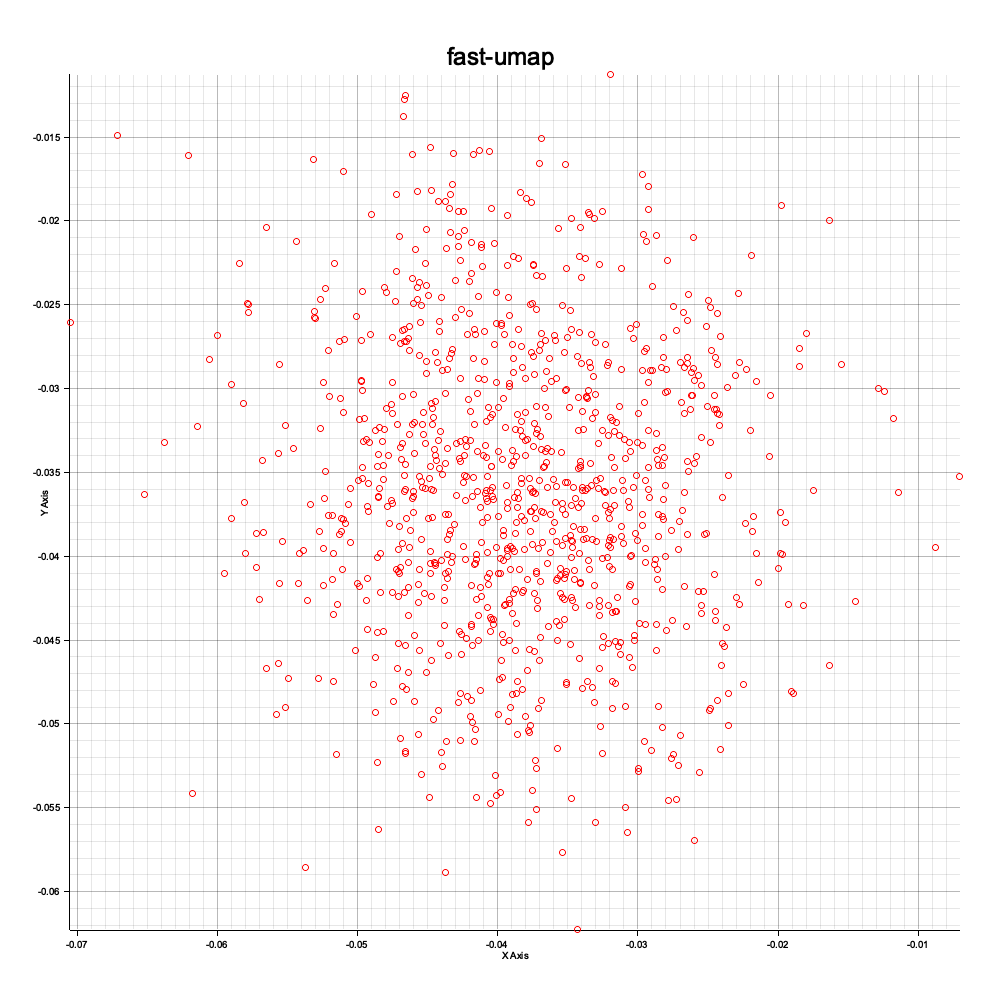
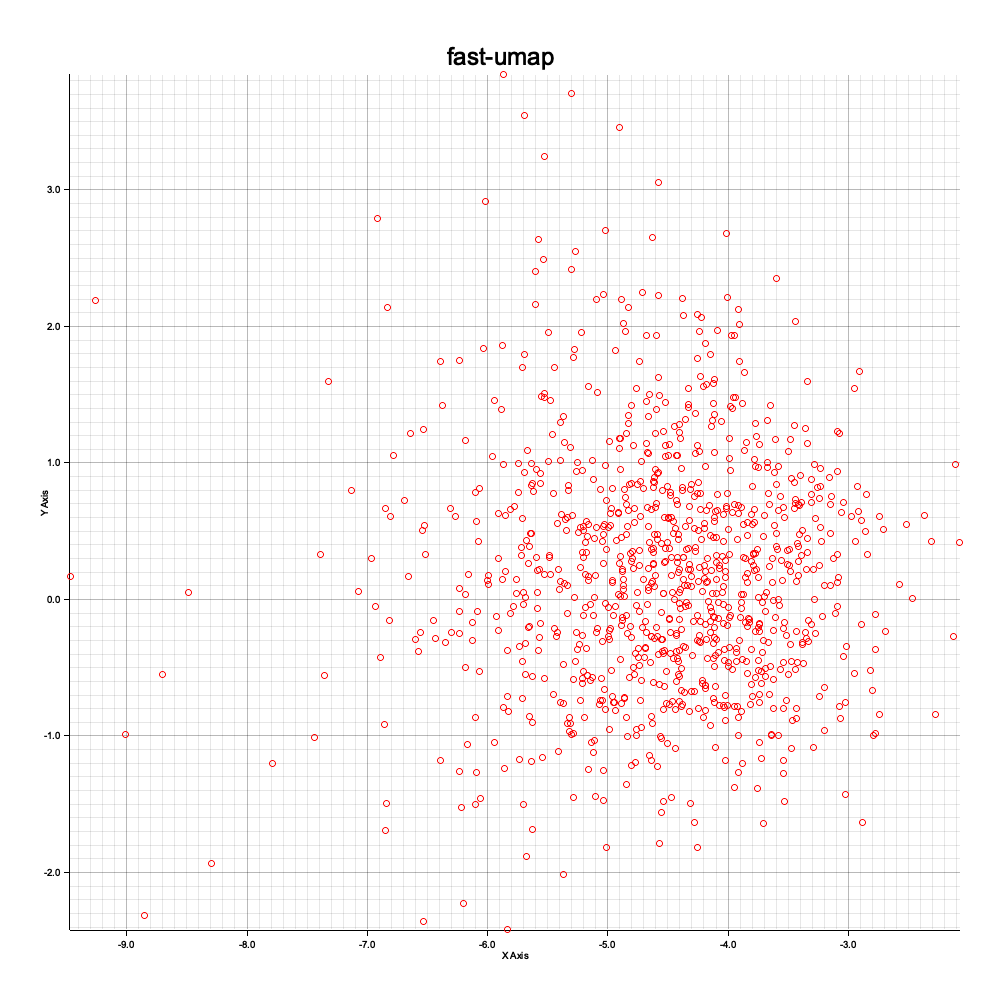
added verbose feature

Changed region(s): [[0.031, 0.062, 0.961, 0.961]]

diff --git a/src/train/mod.rs b/src/train/mod.rs
@@ -66,6 +66,15 @@ where
 
     let batch_size = config.batch_size;
 
+    #[cfg(feature = "verbose")]
+    {
+        println!("config - {config:#?}");
+    }
+
+    if batch_size == 1 {
+        panic!("You can not have a batch size of 1, because UMAP doesn't have other samples to compare to!")
+    }
+
     // Normalize the input data (Z-score normalization).
     normalize_data(&mut data, num_samples, num_features);
 
@@ -82,6 +91,8 @@ where
         }
         batches.push(batch);
     }
+
+    println!("batches - {:?}", batches.len());
 
     // Step 2: Precompute the tensor representations and global distances for each batch.
     let mut tensor_batches: Vec<Tensor<B, 2>> = Vec::new();
@@ -147,7 +158,6 @@ where
     'main: loop {
         // println!("batch {}", format_duration(start_time.elapsed()));
         for (batch_idx, _) in batches.iter().enumerate() {
-            // TODO: uncomment this and allow ctrlc feature
             if let Ok(_) = exit_rx.try_recv() {
                 break 'main;
             }
@@ -185,22 +195,28 @@ where
 
             let loss = mse_loss.forward(
                 global_distances.clone(),
-                local_distances,
+                local_distances.clone(),
                 burn::nn::loss::Reduction::Mean,
             );
 
             let current_loss = F::from(loss.clone().into_scalar().to_f64()).unwrap();
-            // Compute gradients and update the model parameters using the optimizer.
 
-            if !current_loss.is_nan() {
-                losses.push(current_loss);
-            } else {
-                println!("Loss is nan");
+            losses.push(current_loss);
+
+            #[cfg(feature = "verbose")]
+            {
+                // println!("global_distances {:?}", global_distances.to_data());
+                // println!("local_distances {:?}", local_distances.to_data());
+                // println!("loss {:?}", loss.to_data());
+                if current_loss.is_nan() {
+                    panic!("current loss is NaN")
+                }
             }
 
             // TODO: if loss is NaN, do something else. FIXME
             let grads = loss.backward();
 
+            // Compute gradients and update the model parameters using the optimizer.
             let batch_grads = GradientsParams::from_grads(grads, &model);
 
             // Accumulate gradients.
@@ -263,28 +279,37 @@ where
 
         let output_path = format!("losses_{name}.png");
 
-        const STEP: usize = 100;
-        if epoch > 0 && epoch % STEP == 0 {
-            let losses = losses.clone();
-            let model = &model.valid();
-            let tensor_data =
-                convert_vector_to_tensor(data.clone(), num_samples, num_features, &device);
-            // this is still slow
+        #[cfg(feature = "verbose")]
+        {
+            const STEP: usize = 100;
+            let name = name.to_string();
+            if epoch > 0 && epoch % STEP == 0 {
+                let losses = losses.clone();
+                let model = &model.valid();
+                let tensor_data =
+                    convert_vector_to_tensor(data.clone(), num_samples, num_features, &device);
+                // this is still slow
 
-            let embeddings_for_entire_dataset = model.forward(tensor_data);
-            if VERBOSE {
-                let output_path = output_path.clone();
-                thread::spawn(move || {
-                    let chart_config = ChartConfigBuilder::default()
-                        .caption("MNIST")
-                        .path(format!("mnist_{epoch}.png").as_str())
-                        .build();
+                let embeddings_for_entire_dataset = model.forward(tensor_data);
+                if VERBOSE {
+                    let output_path = output_path.clone();
 
-                    // Visualize the 2D embedding (local representation) using a chart
-                    chart::chart_tensor(embeddings_for_entire_dataset, None, Some(chart_config));
-                    // Print only last losses
-                    plot_loss(losses.clone()[STEP..].to_vec(), &output_path).unwrap();
-                });
+                    thread::spawn(move || {
+                        let chart_config = ChartConfigBuilder::default()
+                            .caption(format!("{name}_{epoch}").as_str())
+                            .path(format!("{name}_{epoch}.png").as_str())
+                            .build();
+
+                        // Visualize the 2D embedding (local representation) using a chart
+                        chart::chart_tensor(
+                            embeddings_for_entire_dataset,
+                            None,
+                            Some(chart_config),
+                        );
+                        // Print only last losses
+                        plot_loss(losses.clone()[STEP..].to_vec(), &output_path).unwrap();
+                    });
+                }
             }
         }
 
@@ -311,17 +336,16 @@ where
     }
 
     // If verbose mode is enabled, plot the loss curve after training.
-    // if config.verbose {
-    //     plot_loss(losses.clone(), "losses.png").unwrap();
-    // }
+    #[cfg(feature = "verbose")]
+    {
+        let name = format!("losses_{name}.png");
+        plot_loss(losses.clone(), name.as_str()).unwrap();
+    }
 
     // Finish the progress bar if it was used.
     if let Some(pb) = pb {
         pb.finish();
     }
-
-    // Return last trained model.
-    // (model, losses)
 
     // let record = BinFileRecorder::<FullPrecisionSettings>::default();
     model = model

diff --git a/examples/advanced.rs b/examples/advanced.rs
@@ -21,19 +21,22 @@ fn main() {
     let device = Default::default();
 
     // Set training hyperparameters
-    let batch_size = 1; // Number of samples per batch during training
+    let batch_size = 1000; // Number of samples per batch during training
     let num_samples = 1000; // Total number of samples in the dataset
-    let num_features = 90; // Number of features (dimensions) for each sample
+    let num_features = 100; // Number of features (dimensions) for each sample
     let k_neighbors = 10; // Number of nearest neighbors for the UMAP algorithm
     let output_size = 2; // Number of output dimensions (e.g., 2D for embeddings)
     let hidden_sizes = vec![100, 100, 100]; // Size of the hidden layer in the neural network
     let learning_rate = 0.001; // Learning rate for optimization
     let beta1 = 0.9; // Beta1 parameter for the Adam optimizer
     let beta2 = 0.999; // Beta2 parameter for the Adam optimizer
-    let epochs = 400; // Number of training epochs
+
+    // let epochs = 400; // Number of training epochs
+    let epochs = 100; // Number of training epochs
     let seed = 9999; // Random seed to ensure reproducibility
     let verbose = true; // Whether to enable the progress bar during training
-    let patience = 10; // Number of epochs without improvement before early stopping
+
+    // let patience = 10; // Number of epochs without improvement before early stopping
     let min_desired_loss = 0.001; // Minimum loss threshold for early stopping
     let timeout = 60;
 
@@ -66,7 +69,7 @@ fn main() {
         .with_beta1(beta1) // Set the beta1 parameter for the Adam optimizer
         .with_beta2(beta2) // Set the beta2 parameter for the Adam optimizer
         .with_verbose(verbose) // Enable or disable the progress bar
-        .with_patience(patience) // Set the patience for early stopping
+        // .with_patience(patience) // Set the patience for early stopping
         .with_metric(metric.into()) // Set the metric for nearest neighbors (e.g., Euclidean)
         .with_k_neighbors(k_neighbors) // Set the number of neighbors to consider for UMAP
         .with_min_desired_loss(min_desired_loss) // Set the minimum desired loss for early stopping

diff --git a/src/kernels/euclidean/forward.rs b/src/kernels/euclidean/forward.rs
@@ -37,6 +37,12 @@ impl<R: JitRuntime, F: FloatElement, I: IntElement> Backend for JitBackend<R, F,
             output.as_tensor_arg(1),
         );
 
+        #[cfg(feature = "verbose")]
+        {
+            // println!("euclidean_pairwise_distance[{n}] x - {x:?}");
+            // println!("euclidean_pairwise_distance[{n}] output - {output:?}");
+        }
+
         output
     }
 

diff --git a/README.md b/README.md
@@ -24,7 +24,7 @@ See [documentation](https://docs.rs/crate/fast-umap/latest) for more.
 - [x] Implement batches, **accumulated gradient**
 - [ ] precompute inital local fitting with the PCA
 - [x] implement distances in CubeCL kernels
-- [ ] Create testbench to compare different hyper parameters (`patience` vs `n_features` vs `epochs` etc.)
+- [x] Create testbench to compare different hyper parameters (`patience` vs `n_features` vs `epochs` etc.)
 
 ## Installation
 
